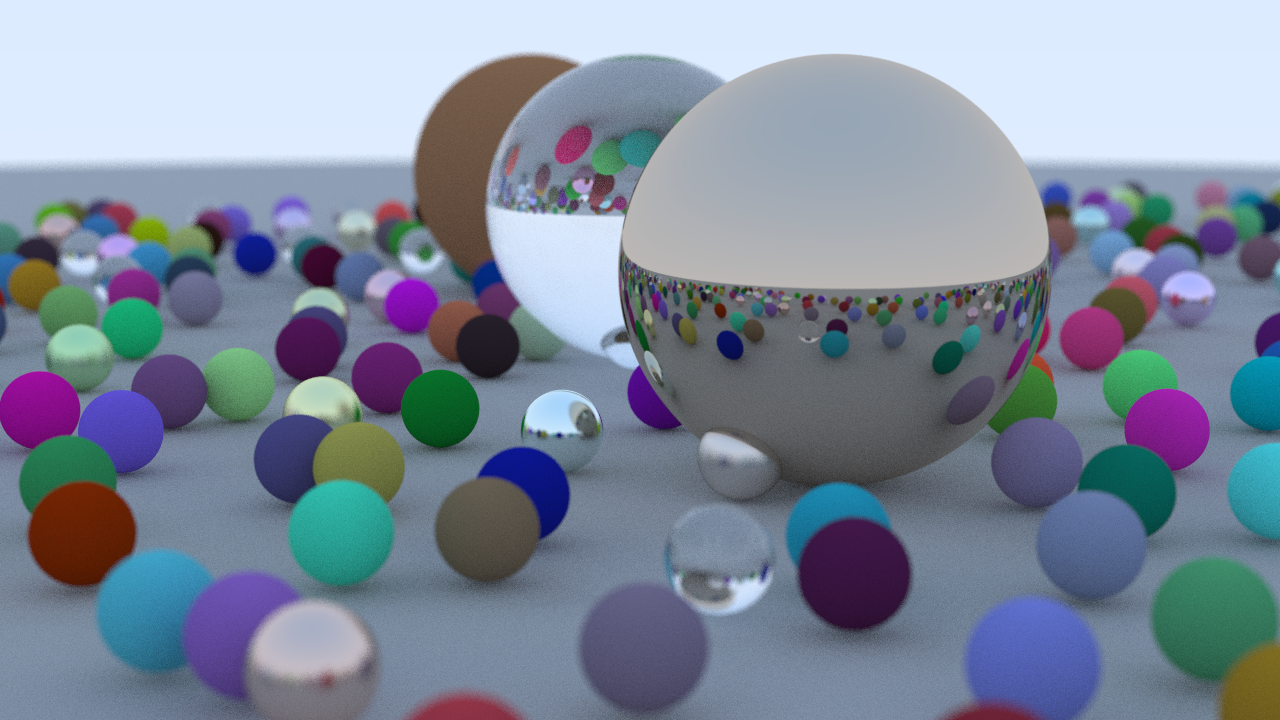
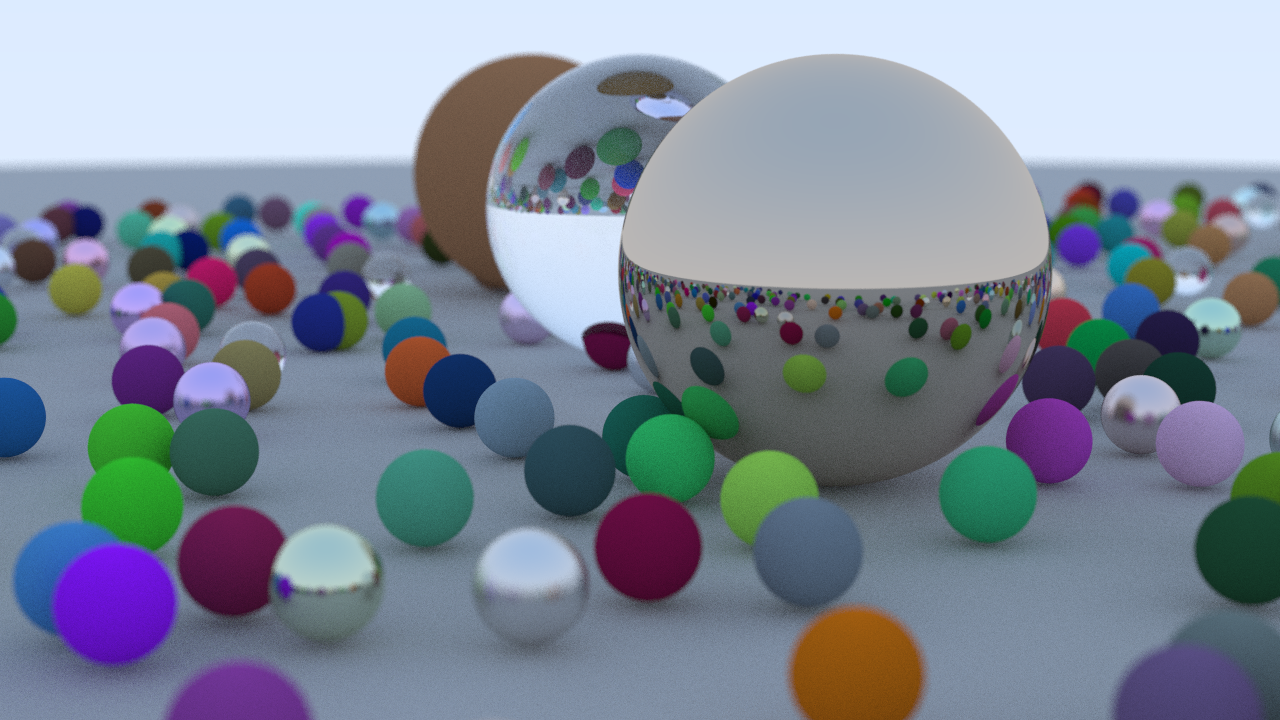
spacetime rays

diff --git a/src/rng.rs b/src/rng.rs
@@ -6,11 +6,21 @@ use crate::Color;
 pub struct RandomNumberGenerator {
     pub uniform_0_1: Uniform<f64>,
     pub uniform_minus_1_1: Uniform<f64>,
+    pub uniform_time: Uniform<f64>,
 }
 
 impl RandomNumberGenerator {
-    pub fn new() -> Self {
-        Self::default()
+    pub fn new(time_min: f64, time_max: f64) -> Self {
+        Self {
+            uniform_0_1: Uniform::new(0., 1.),
+            uniform_minus_1_1: Uniform::new(-1., 1.),
+            uniform_time: Uniform::new(time_min, time_max),
+        }
+    }
+
+    pub fn time(&self) -> f64 {
+        let mut rng = thread_rng();
+        self.uniform_time.sample(&mut rng)
     }
 
     pub fn in_unit_cube(&self) -> DVec3 {
@@ -63,14 +73,5 @@ impl RandomNumberGenerator {
             self.uniform_0_1.sample(&mut rng),
             self.uniform_0_1.sample(&mut rng),
         )
-    }
-}
-
-impl Default for RandomNumberGenerator {
-    fn default() -> Self {
-        Self {
-            uniform_0_1: Uniform::new(0., 1.),
-            uniform_minus_1_1: Uniform::new(-1., 1.),
-        }
     }
 }

diff --git a/src/ray.rs b/src/ray.rs
@@ -5,17 +5,15 @@ use std::sync::Weak;
 pub struct Ray {
     origin: DVec3,
     direction: DVec3,
-    time_min: f64,
-    time_max: f64,
+    time: f64,
 }
 
 impl Ray {
-    pub fn new(origin: DVec3, direction: DVec3, time_min: f64, time_max: f64) -> Self {
+    pub fn new(origin: DVec3, direction: DVec3, time: f64) -> Self {
         Self {
             origin,
             direction,
-            time_min,
-            time_max,
+            time,
         }
     }
 
@@ -27,20 +25,12 @@ impl Ray {
         &self.direction
     }
 
-    pub fn time_min(&self) -> f64 {
-        self.time_min
+    pub fn time(&self) -> f64 {
+        self.time
     }
 
-    pub fn time_max(&self) -> f64 {
-        self.time_max
-    }
-
-    pub fn at_unchecked(&self, t: f64) -> DVec3 {
+    pub fn at(&self, t: f64) -> DVec3 {
         self.origin + t * self.direction
-    }
-
-    pub fn exists_at(&self, time: f64) -> bool {
-        self.time_min <= time && time <= self.time_max
     }
 }
 

diff --git a/src/hittable/sphere.rs b/src/hittable/sphere.rs
@@ -17,7 +17,7 @@ impl Sphere {
 }
 
 impl Hittable for Sphere {
-    fn hit(&self, ray: &Ray) -> Option<HitResult> {
+    fn hit(&self, ray: &Ray, time_min: f64, time_max: f64) -> Option<HitResult> {
         let oc = *ray.origin() - self.center;
         let a = ray.direction().length_squared();
         let half_b = oc.dot(*ray.direction());
@@ -28,13 +28,13 @@ impl Hittable for Sphere {
         }
         let discriminant_sqrt = discriminant.sqrt();
         let mut time = (-half_b - discriminant_sqrt) / a;
-        if !ray.exists_at(time) {
+        if time < time_min || time_max < time {
             time = (-half_b + discriminant_sqrt) / a;
-            if !ray.exists_at(time) {
+            if time < time_min || time_max < time {
                 return None;
             }
         }
-        let point = ray.at_unchecked(time);
+        let point = ray.at(time);
         let normal = (point - self.center) / self.radius;
         Some(HitResult {
             normal,

diff --git a/examples/weekend.rs b/examples/weekend.rs
@@ -1,16 +1,28 @@
 use path_tracer::*;
 const WIDTH: u32 = 1280;
 const HEIGHT: u32 = 720;
+const TIME_MIN: f64 = 0.001;
+const TIME_MAX: f64 = f64::MAX;
 
 fn main() -> Result<(), image::ImageError> {
-    let rng = RandomNumberGenerator::new();
+    let rng = RandomNumberGenerator::new(TIME_MIN, TIME_MAX);
     let scene = Scene::random(11, rng);
 
     let look_from = DVec3::new(13., -2., 3.);
     let look_at = DVec3::new(0., 0., 0.);
     let vup = DVec3::new(0., 1., 0.);
     let aspect_ratio = WIDTH as f64 / HEIGHT as f64;
-    let camera = Camera::new(look_from, look_at, vup, 20., aspect_ratio, 0.1, 10.);
+    let camera = Camera::new(
+        look_from,
+        look_at,
+        vup,
+        20.,
+        aspect_ratio,
+        0.1,
+        10.,
+        TIME_MIN,
+        TIME_MAX,
+    );
 
     let image = Render::new(WIDTH, HEIGHT, 100, scene, camera).to_image();
     image.save_with_format("examples/weekend.png", image::ImageFormat::Png)

diff --git a/src/scene.rs b/src/scene.rs
@@ -7,13 +7,15 @@ use super::{
 };
 pub struct Scene {
     pub hittables: Vec<Box<dyn Hittable>>,
+    pub time_min: f64,
+    pub time_max: f64,
 }
 
 impl Scene {
-    fn closest_hit(&self, ray: &Ray) -> Option<HitResult> {
+    fn closest_hit(&self, ray: &Ray, time_min: f64, time_max: f64) -> Option<HitResult> {
         self.hittables
             .iter()
-            .filter_map(|h| h.hit(ray))
+            .filter_map(|h| h.hit(ray, time_min, time_max))
             .min_by(|x, y| x.time.partial_cmp(&y.time).unwrap())
     }
 
@@ -21,7 +23,7 @@ impl Scene {
         if depth == 0 {
             return Color::ZERO;
         }
-        match self.closest_hit(ray) {
+        match self.closest_hit(ray, self.time_min, self.time_max) {
             Some(hit_result) => {
                 let material = hit_result.material.upgrade().unwrap();
                 match material.scatter(ray, &hit_result, rng) {

diff --git a/examples/wide.rs b/examples/wide.rs
@@ -1,7 +1,10 @@
 use path_tracer::*;
 use std::f64::consts::PI;
+
 const WIDTH: u32 = 1280;
 const HEIGHT: u32 = 720;
+const TIME_MIN: f64 = 0.001;
+const TIME_MAX: f64 = f64::MAX;
 
 fn main() -> Result<(), image::ImageError> {
     let left = Arc::new(material::Lambertian {
@@ -16,6 +19,8 @@ fn main() -> Result<(), image::ImageError> {
             Box::new(hittable::Sphere::new(r, DVec3::new(-r, 0., -1.), left)),
             Box::new(hittable::Sphere::new(r, DVec3::new(r, 0., -1.), right)),
         ],
+        time_min: TIME_MIN,
+        time_max: TIME_MAX,
     };
 
     let aspect_ratio = WIDTH as f64 / HEIGHT as f64;
@@ -27,6 +32,8 @@ fn main() -> Result<(), image::ImageError> {
         aspect_ratio,
         0.,
         1.,
+        TIME_MIN,
+        TIME_MAX,
     );
 
     let image = Render::new(WIDTH, HEIGHT, 100, scene, camera).to_image();

diff --git a/src/camera.rs b/src/camera.rs
@@ -9,6 +9,8 @@ pub struct Camera {
     u: DVec3,
     v: DVec3,
     lens_radius: f64,
+    pub time_min: f64,
+    pub time_max: f64,
 }
 
 impl Camera {
@@ -20,6 +22,8 @@ impl Camera {
         aspect_ratio: f64,
         aperture: f64,
         focus_distance: f64,
+        time_min: f64,
+        time_max: f64,
     ) -> Self {
         let theta = vfov.to_radians() / 2.;
         let h = theta.tan();
@@ -42,6 +46,8 @@ impl Camera {
             u,
             v,
             lens_radius,
+            time_min,
+            time_max,
         }
     }
 
@@ -51,8 +57,7 @@ impl Camera {
         Ray::new(
             self.origin + offset,
             self.lower_left_corner + self.horizontal * s + self.vertical * t - self.origin - offset,
-            0.001,
-            f64::INFINITY,
+            rng.time(),
         )
     }
 }

diff --git a/src/material/lambertian.rs b/src/material/lambertian.rs
@@ -12,7 +12,7 @@ impl Material for Lambertian {
         rng: &RandomNumberGenerator,
     ) -> Option<Scatter> {
         let direction = rng.in_hemishphere(normal);
-        let ray = Ray::new(*point, direction, ray.time_min(), ray.time_max());
+        let ray = Ray::new(*point, direction, ray.time());
         let attenuation = self.albedo;
         Some(Scatter { ray, attenuation })
     }

diff --git a/src/material/metal.rs b/src/material/metal.rs
@@ -16,8 +16,7 @@ impl Material for Metal {
         let ray = Ray::new(
             *point,
             reflected + self.fuzz * rng.in_unit_sphere(),
-            ray.time_min(),
-            ray.time_max(),
+            ray.time(),
         );
         match ray.direction().dot(*normal) > 0. {
             true => Some(Scatter {

diff --git a/src/material/dielectric.rs b/src/material/dielectric.rs
@@ -31,7 +31,7 @@ impl Material for Dielectric {
         } else {
             refract(direction, normal, refraction_ratio)
         };
-        let ray = Ray::new(*point, direction, ray.time_min(), ray.time_max());
+        let ray = Ray::new(*point, direction, ray.time());
         Some(Scatter { ray, attenuation })
     }
 }

diff --git a/src/render.rs b/src/render.rs
@@ -21,7 +21,7 @@ impl Render {
         scene: Scene,
         camera: Camera,
     ) -> Self {
-        let rng = RandomNumberGenerator::new();
+        let rng = RandomNumberGenerator::new(camera.time_min, camera.time_max);
         Render {
             width,
             height,

diff --git a/src/hittable/mod.rs b/src/hittable/mod.rs
@@ -11,5 +11,5 @@ mod impl_prelude {
 use impl_prelude::*;
 
 pub trait Hittable: Send + Sync {
-    fn hit(&self, ray: &Ray) -> Option<HitResult>;
+    fn hit(&self, ray: &Ray, time_min: f64, time_max: f64) -> Option<HitResult>;
 }
